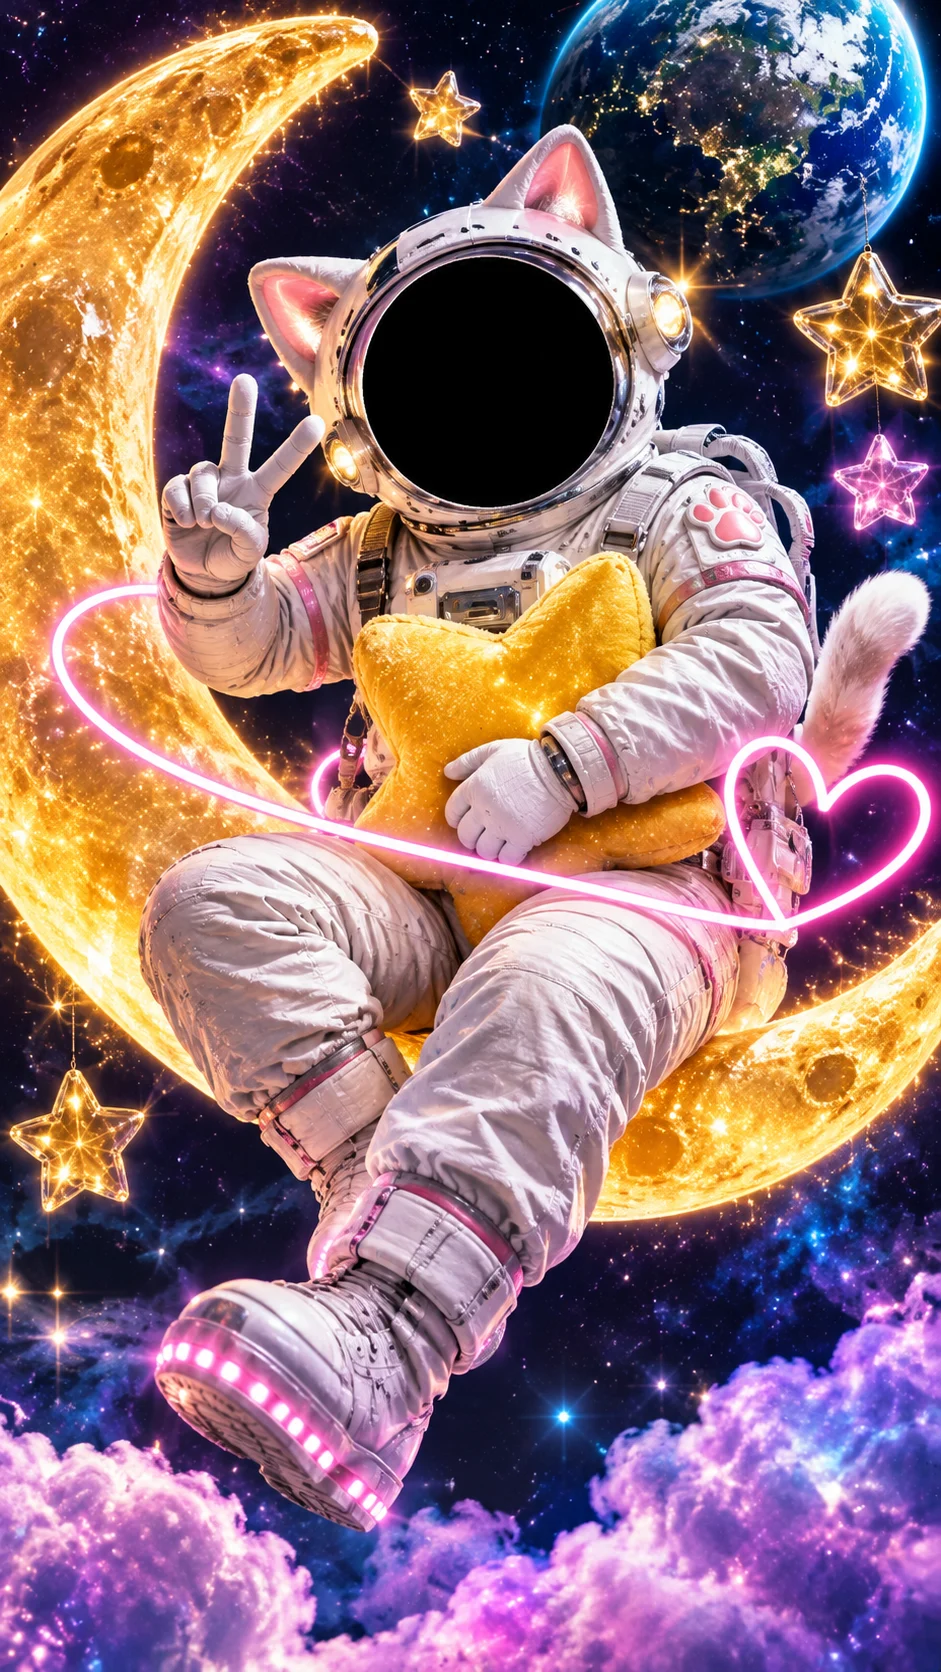
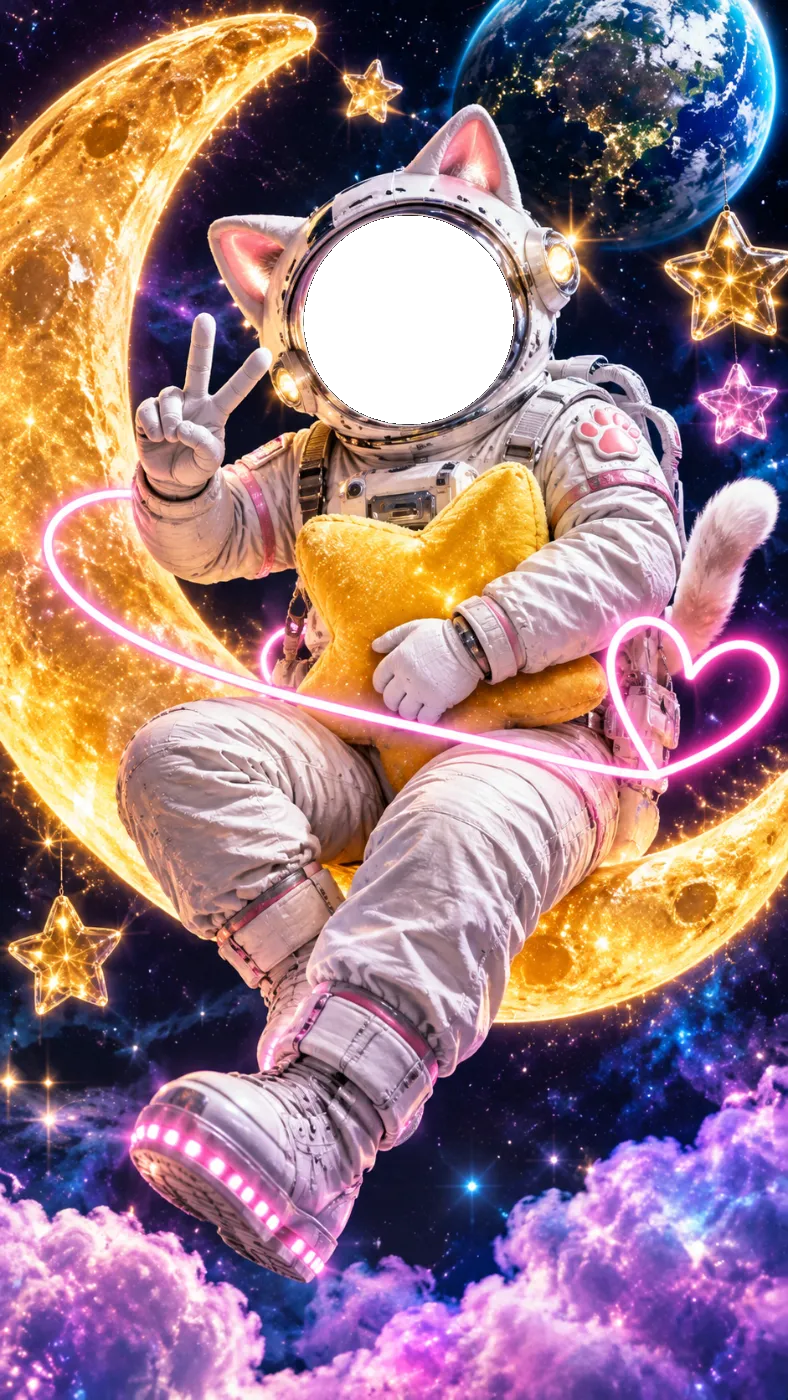
顔ハメを特別扱いせず、ただの重ね絵にした
「全体を映した上にただフィルターおくだけ」（2026-08-11、伊波さん）。
穴の位置に楕円で切り抜いたカメラを重ねる特別扱いをやめ、絵そのものの
黒い穴を透明に抜いた。これで映像の上に枠を重ねるだけで穴から中が見える。
顔をどこに置くかは使う人しだいになる。

取り込みの道具に --min を足した。抜く塊の最小の大きさを変えられる。
0.4%のままだと、絵の中の暗いところ（猫のバンダナ、木の影）まで抜けて
そこから映像が透けた。顔ハメは 2% で通した。

13・16・17 の3枚だけ、穴が絵の暗い部分と繋がっていて切り分けられない。
絵を壊すよりはと、この3枚は元のまま（穴は黒いまま）にしてある。

Changed region(s): [[0.3655, 0.1536, 0.6701, 0.3071]]

diff --git a/src/recorder.ts b/src/recorder.ts
@@ -74,7 +74,7 @@ export type StageOptions = {
     /** true なら画面いっぱいに広げる（カメラ）。false は切らずに収める（動画） */
     fill: boolean;
     shape: OutShape;
-    frame: { img: HTMLImageElement; anchor: FrameAnchor; faceHole?: { x: number; y: number; w: number; h: number } } | null;
+    frame: { img: HTMLImageElement; anchor: FrameAnchor } | null;
     watermark: string | null;
   };
 };
@@ -111,25 +111,9 @@ export function startStage(opts: StageOptions): () => void {
 
     if (frame) drawFrame(g, frame.img, frame.anchor, OUT_W, OUT_H);
 
-    // 顔ハメフレームのときは、穴の位置にカメラ映像を楕円クリッピングで重ねる。
-    // フレームを先に描いてから重ねることで「穴だけからカメラが見える」見た目になる。
-    // 穴は透明ではなく黒い塗りつぶしなので、フレームより後に描かなければ隠れる。
-    if (frame?.faceHole && video && vw && vh) {
-      const fh = frame.faceHole;
-      const cx = OUT_W * (fh.x + fh.w / 2) / 100;
-      const cy = OUT_H * (fh.y + fh.h / 2) / 100;
-      const rx = OUT_W * (fh.w / 2) / 100;
-      const ry = OUT_H * (fh.h / 2) / 100;
-      g.save();
-      g.beginPath();
-      g.ellipse(cx, cy, rx, ry, 0, 0, Math.PI * 2);
-      g.clip();
-      const scale = Math.max(OUT_W / vw, OUT_H / vh);
-      const w = vw * scale, h = vh * scale;
-      g.drawImage(video, (OUT_W - w) / 2, (OUT_H - h) / 2, w, h);
-      g.restore();
-    }
-
+    // 顔ハメの穴は、絵そのものを透明に抜いてある（取り込みのときに処理）。
+    // だから特別扱いは要らない。映像の上に枠を重ねるだけで、穴から中が見える
+    // （2026-08-11、伊波さん「全体を映した上にただフィルターおくだけ」）
     drawEffects(g, OUT_W, OUT_H);
     if (watermark) {
       drawWatermark(g, watermark, OUT_W, OUT_H, frame?.anchor === 'bottom' ? 'top' : 'bottom');

diff --git a/src/App.tsx b/src/App.tsx
@@ -85,7 +85,7 @@ function App() {
     video: HTMLVideoElement | null;
     fill: boolean;
     shape: OutShape;
-    frame: { img: HTMLImageElement; anchor: FrameAnchor; faceHole?: { x: number; y: number; w: number; h: number } } | null;
+    frame: { img: HTMLImageElement; anchor: FrameAnchor } | null;
     watermark: string | null;
   }>({ video: null, fill: false, shape: 'landscape', frame: null, watermark: 'tinyCUBE' });
   
@@ -312,7 +312,7 @@ function App() {
     if (!frame || (builtinFrame && locked(builtinFrame))) { liveRef.current.frame = null; return; }
     let alive = true;
     loadFrame(frame).then(img => {
-      if (alive) liveRef.current.frame = { img, anchor: frame.anchor, faceHole: frame.faceHole };
+      if (alive) liveRef.current.frame = { img, anchor: frame.anchor };
     }).catch(() => { /* 読めなければ枠なしで続ける */ });
     return () => { alive = false; };
   }, [frame, shape]);
